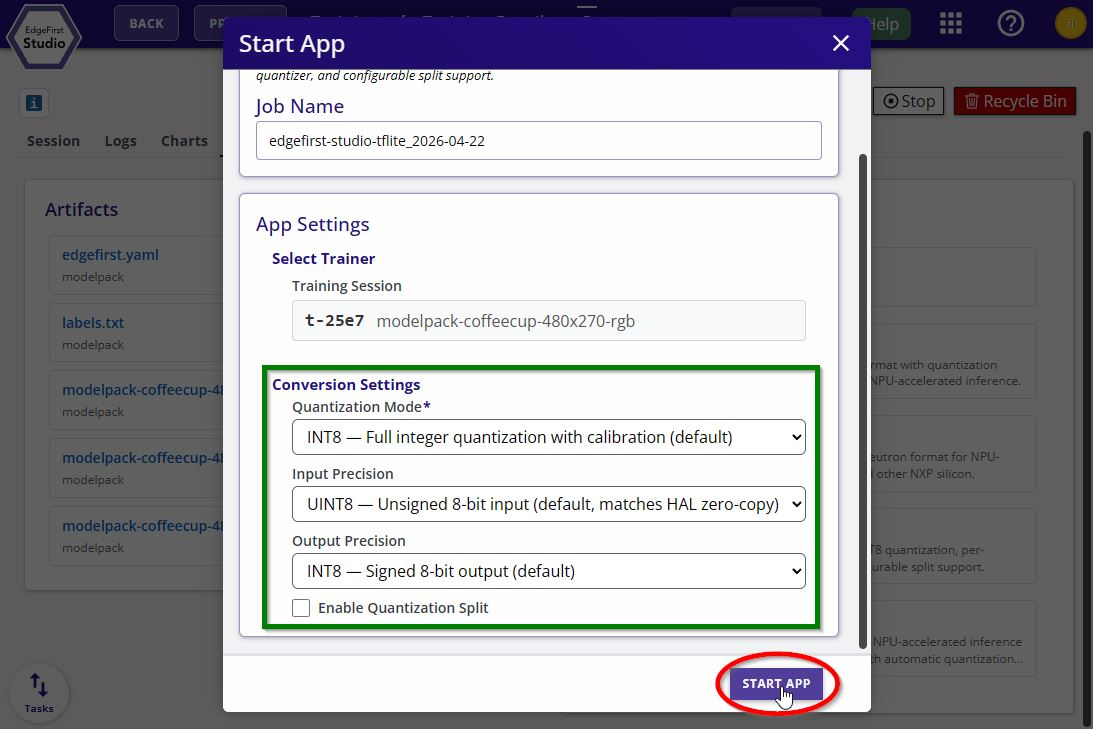
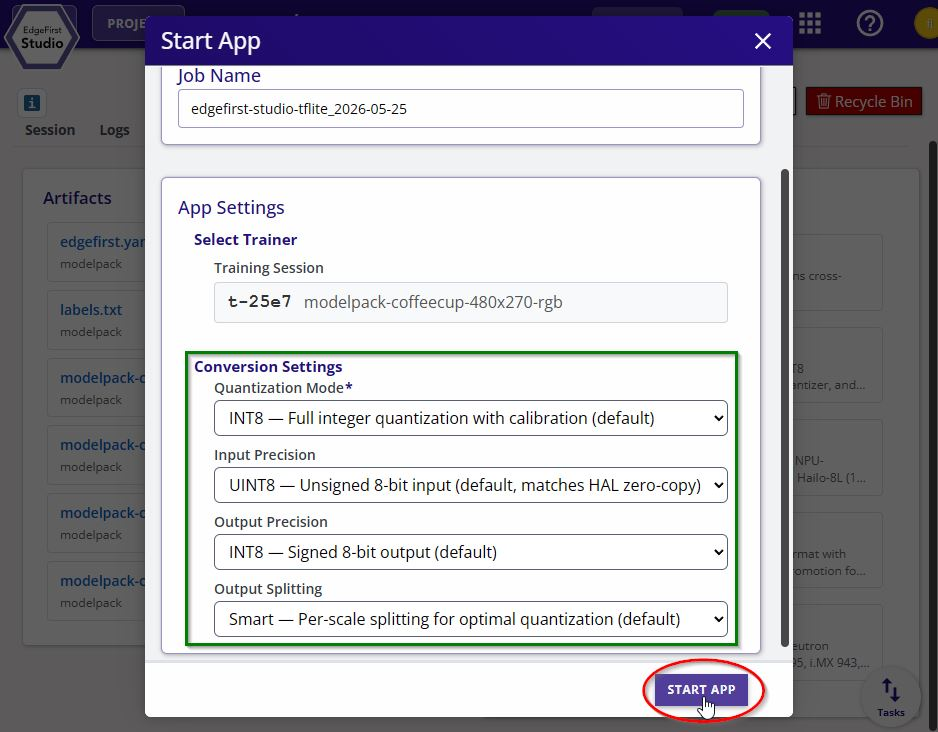
DE-2497: Revise TensorRT and TFLite converter docs
- Remove incorrect claim that trtexec/jq/python3 are on PATH by default
  on JetPack 6.2
- Rename Prerequisites admonition and frame --publish as default workflow
- Rewrite convert_to_tflite step 3 to mention I/O precision option
- Link outputs[] to metadata page in convert_to_tensorrt.md
- Fix "not free runtime" typo in conversion index
- Update tflite-converter-options.jpg screenshot

diff --git a/docs/discrete/models/onnx_to_tensorrt.md b/docs/discrete/models/onnx_to_tensorrt.md
@@ -38,11 +38,9 @@ Conversion has two stages: EdgeFirst Studio packages the ONNX model and supporti
     $ cd <model>/
     ```
 
-8. Compile the bundle into a TensorRT engine. On a stock JetPack 6.2 install, `trtexec`, `jq`, and `python3` are already on `PATH`; you only need extra setup if you intend to use the `--publish` flag.
+    !!! note "Prerequisites"
 
-    !!! note "Required setup for `--publish` (optional)"
-
-        Steps 1 and 2 are only needed if `trtexec` or `jq` are missing from `PATH`. Steps 3 and 4 are only needed if you pass `--publish` to push the compiled engine back to EdgeFirst Studio.
+        Steps a and b ensure the required binaries are on `PATH`. Steps c and d authenticate the `--publish` upload to EdgeFirst Studio.
 
         1. Ensure the `trtexec` binary is on `PATH`:
 
@@ -68,6 +66,8 @@ Conversion has two stages: EdgeFirst Studio packages the ONNX model and supporti
             $ edgefirst-client login
             ```
 
+8. Compile the bundle into a TensorRT engine with `--publish` to push the sealed artifact back to EdgeFirst Studio.
+
     Run the build:
 
     ```shell
@@ -83,7 +83,7 @@ Conversion has two stages: EdgeFirst Studio packages the ONNX model and supporti
 
     The output is a sealed `.fp16.engine` with metadata readable by any ZIP reader; the TensorRT deserializer ignores trailing bytes.
 
-9. The compiled `<model>.fp16.engine` is now ready to deploy. If you used `--publish`, the artifact is also available in the Studio session for re-download to other compatible devices. Verify the engine loads successfully with:
+9. The compiled `<model>.fp16.engine` is now ready to deploy. The artifact is also available in the Studio session for re-download to other compatible devices. Verify the engine loads successfully with:
 
     ```shell
     $ trtexec --loadEngine=<model>.fp16.engine --iterations=100

diff --git a/docs/discrete/models/convert_to_tensorrt.md b/docs/discrete/models/convert_to_tensorrt.md
@@ -24,7 +24,7 @@ After running the on-device build, the final artifact is a sealed `.fp16.engine`
 
 ## Smart Quantization on Jetson
 
-[Smart Quantization](/models/conversion/#smart-quantization) does not apply here. Jetson is an **FP16** target — NVIDIA Jetson Orin GPUs have native FP16 CUDA cores that deliver near-INT8 throughput at near-FP32 accuracy. There is no INT8 quantization step to defeat, and therefore no shared-INT8-scale problem to solve. The compiled `outputs[]` faithfully reflects whatever the trainer's ONNX produced; the runtime decoder takes the FP16 outputs straight to NMS.
+[Smart Quantization](/models/conversion/#smart-quantization) does not apply here. Jetson is an **FP16** target — NVIDIA Jetson Orin GPUs have native FP16 CUDA cores that deliver near-INT8 throughput at near-FP32 accuracy. There is no INT8 quantization step to defeat, and therefore no shared-INT8-scale problem to solve. The compiled [`outputs[]`](/models/metadata/#output-specification) faithfully reflects whatever the trainer's ONNX produced; the runtime decoder takes the FP16 outputs straight to NMS.
 
 INT8 on Jetson via the TRT INT8 calibration path is a future direction. It is not implemented today; the converter does not consume calibration data and the bundle does not include calibration support.
 

diff --git a/docs/models/conversion/index.md b/docs/models/conversion/index.md
@@ -42,7 +42,7 @@ For a typical YOLO-family segmentation head with three FPN scales, the split pro
 
 ### The trade-off framing
 
-Smart quantization is not free runtime — physical splits move per-anchor decode arithmetic onto the CPU, where it shows up as a real (but bounded) cost in the frame budget. Au-Zone's published runtime benchmarks place the optimized decoder in the **sub-20 ms** range across our supported targets for typical YOLO-family heads, which leaves comfortable headroom for ≥30 FPS end-to-end. The production trade-off:
+Smart quantization is not free at runtime — physical splits move per-anchor decode arithmetic onto the CPU, where it shows up as a real (but bounded) cost in the frame budget. Au-Zone's published runtime benchmarks place the optimized decoder in the **sub-20 ms** range across our supported targets for typical YOLO-family heads, which leaves comfortable headroom for ≥30 FPS end-to-end. The production trade-off:
 
 > Smart quantization trades a small, bounded amount of runtime decode work for a large recovery in INT8 accuracy. On every target EdgeFirst ships, the trade is worth taking; on every target EdgeFirst ships, the cost is non-zero.
 

diff --git a/docs/discrete/models/convert_to_tflite.md b/docs/discrete/models/convert_to_tflite.md
@@ -48,7 +48,7 @@ Once training completes in EdgeFirst Studio:
 
     {{ figure("/models/assets/conversion/tflite-converter-button.jpg", "TFLite Converter") }}
 
-3. Pick the quantization mode and split mode, then click **Start App** to begin the conversion.
+3. Adjust the quantization mode, I/O precision, and split mode if needed, or leave the defaults for best out-of-the-box performance. Click **Start App** to begin the conversion.
 
     {{ figure("/models/assets/conversion/tflite-converter-options.jpg", "TFLite Converter Options") }}
 
